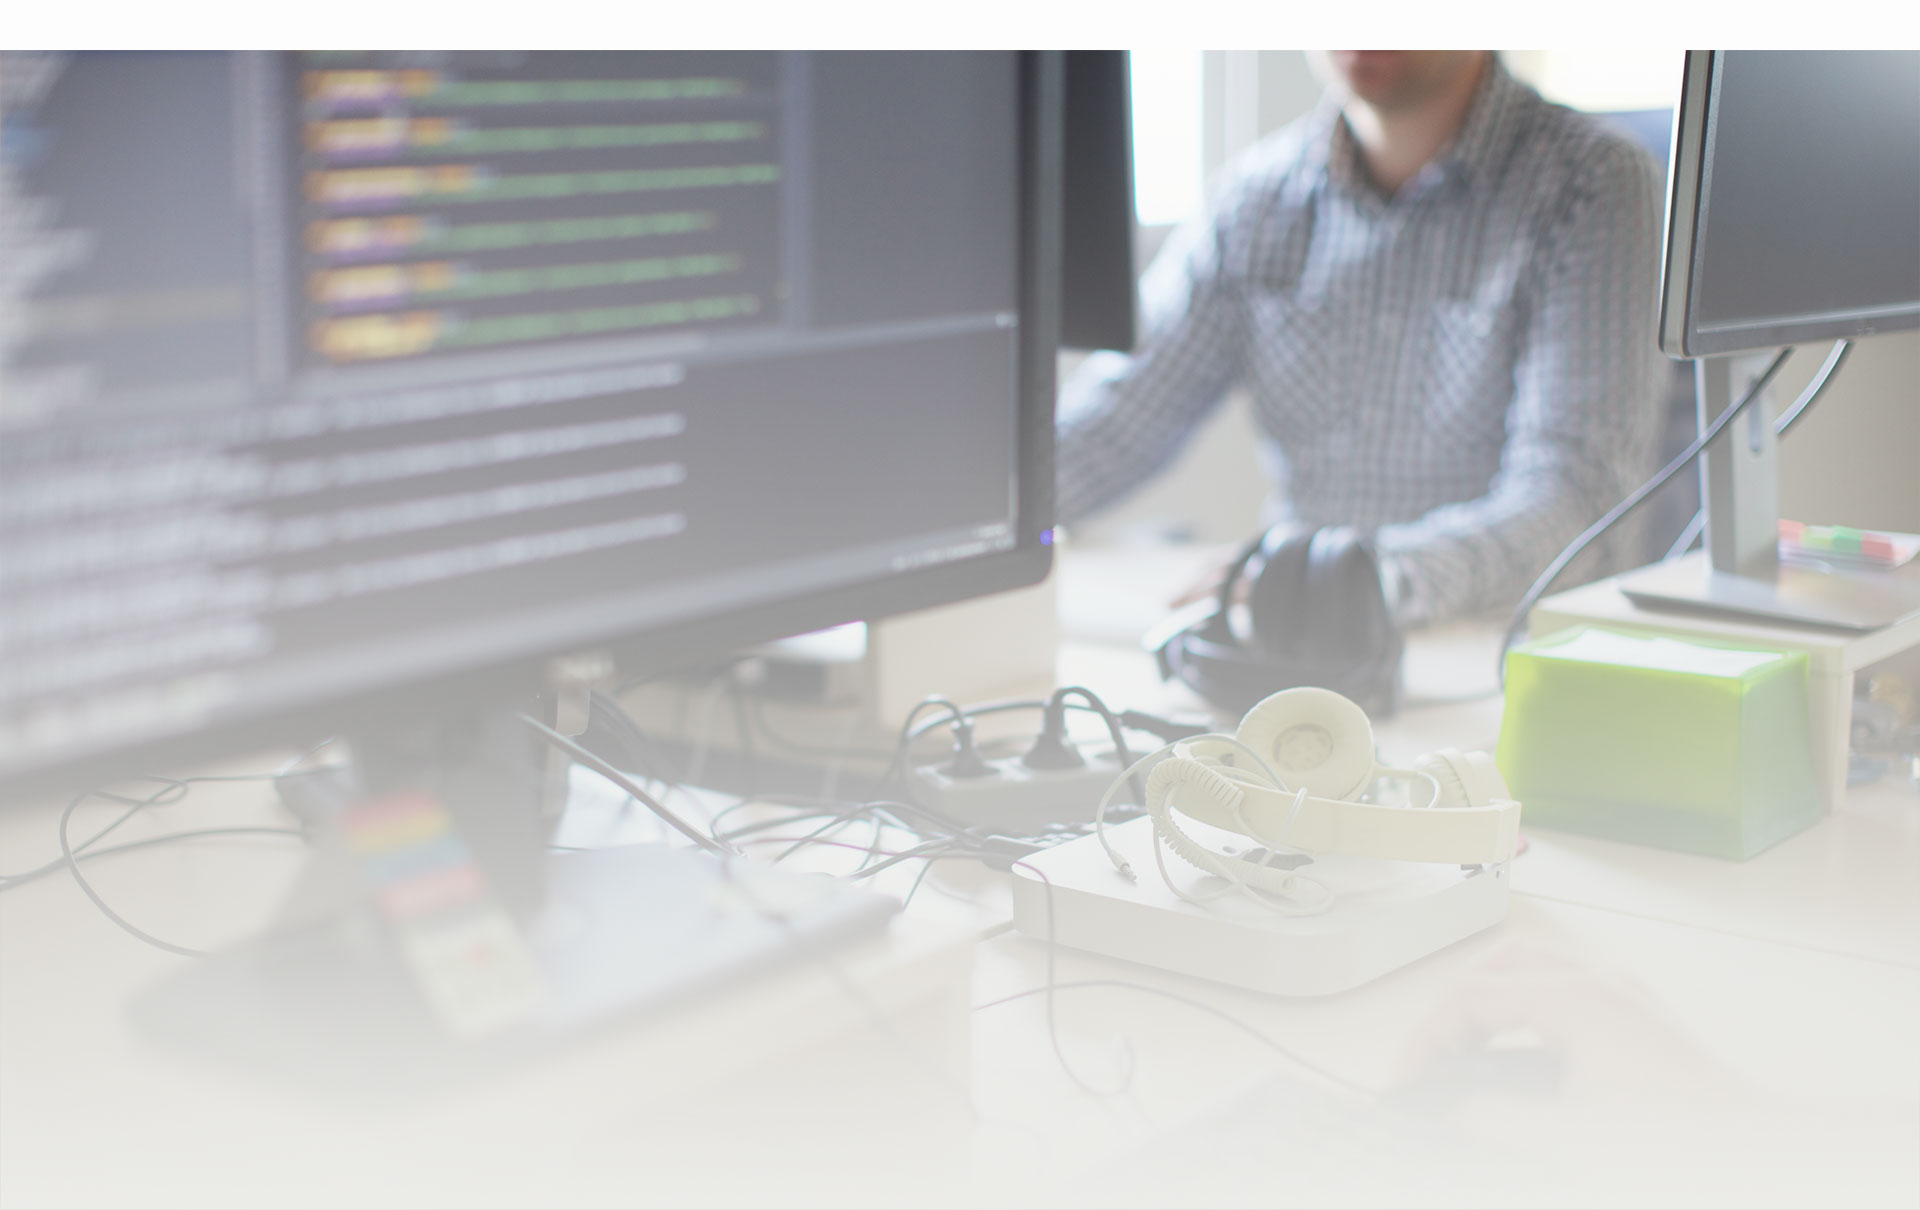
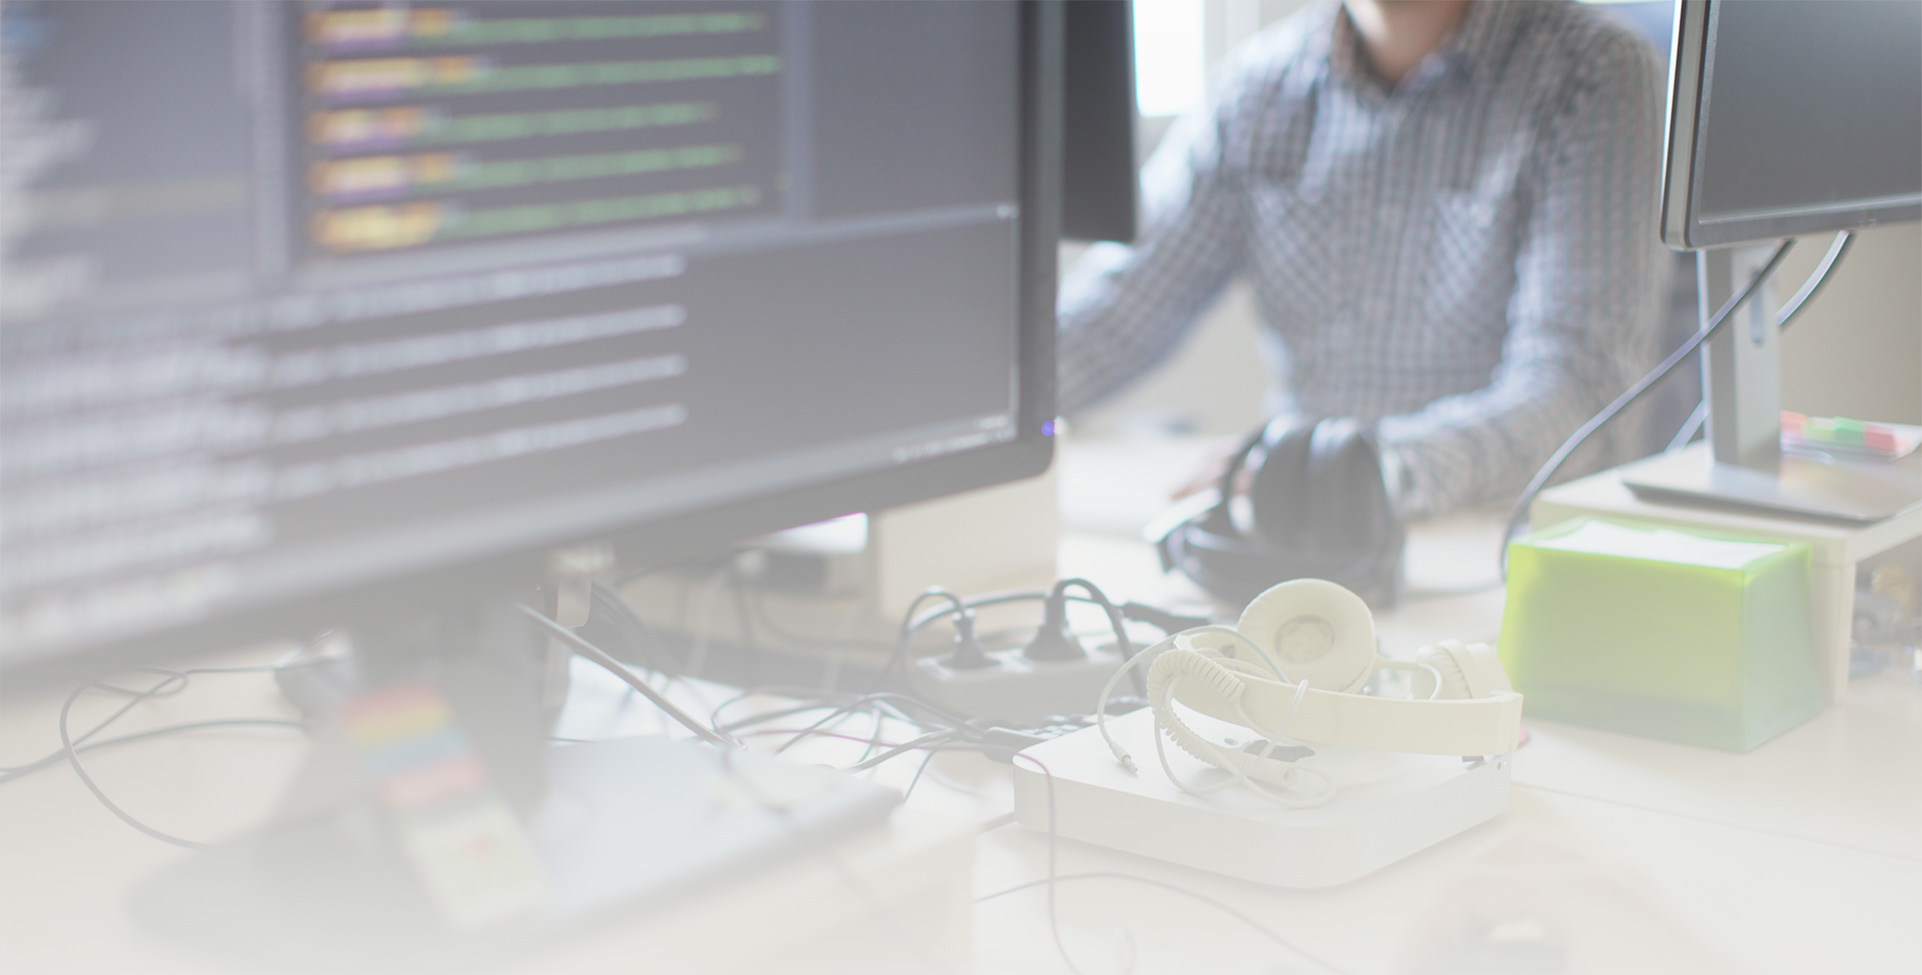
CoreValue - Main-wrapper background fix

diff --git a/css/style.css b/css/style.css
@@ -454,6 +454,8 @@ h1{
     text-align: center;
     position: relative;
     overflow: hidden;
+    padding-top: 70px;
+    min-width: 320px;
 }
 .main-wrapper img {
     max-width: 100%;
@@ -467,7 +469,7 @@ h1{
     bottom: 0;
     right: 0;
     height: 100%;
-    padding-top: 110px;
+    padding-top: 69px;
 }
 .main-wrapper .title-main {
     margin-bottom: 24px;
@@ -1438,7 +1440,7 @@ h4.no-vacancies{
         margin-right: 0;
     }
     .main-wrapper .text-block {
-        padding-top: 69px;
+        padding-top: 35px;
     }
     .main-wrapper .btn {
         min-width: 0;
